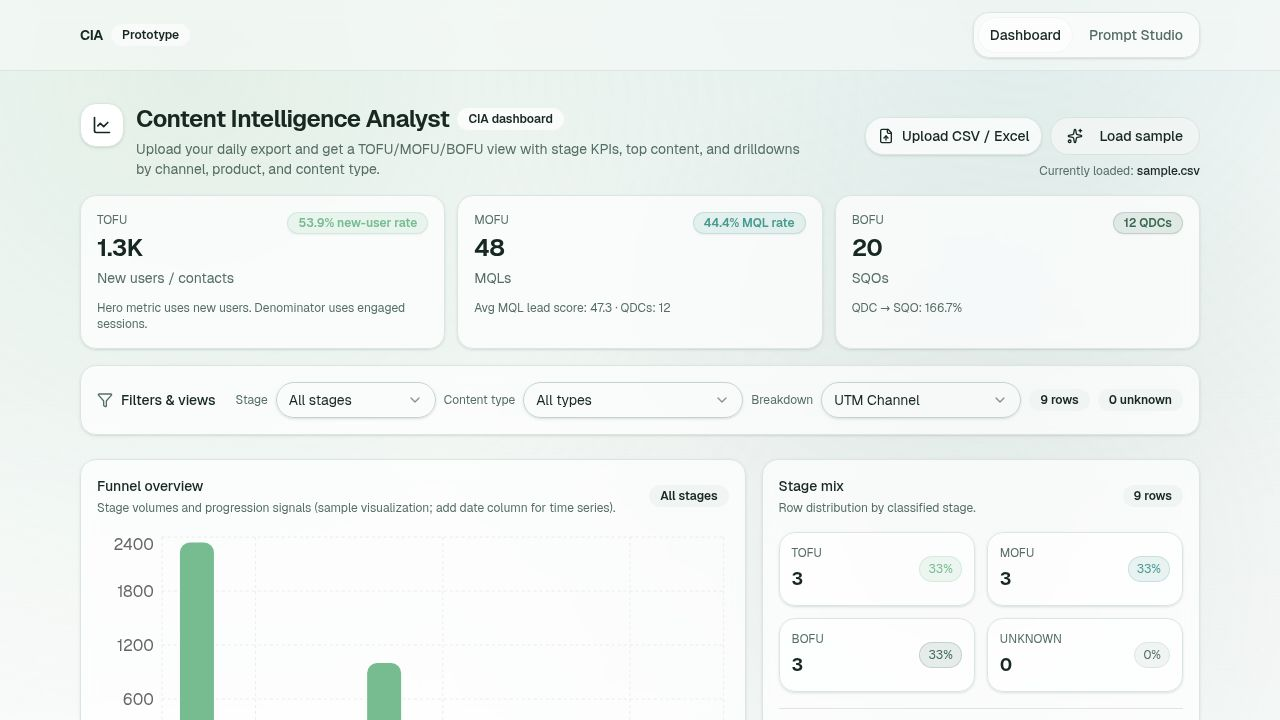
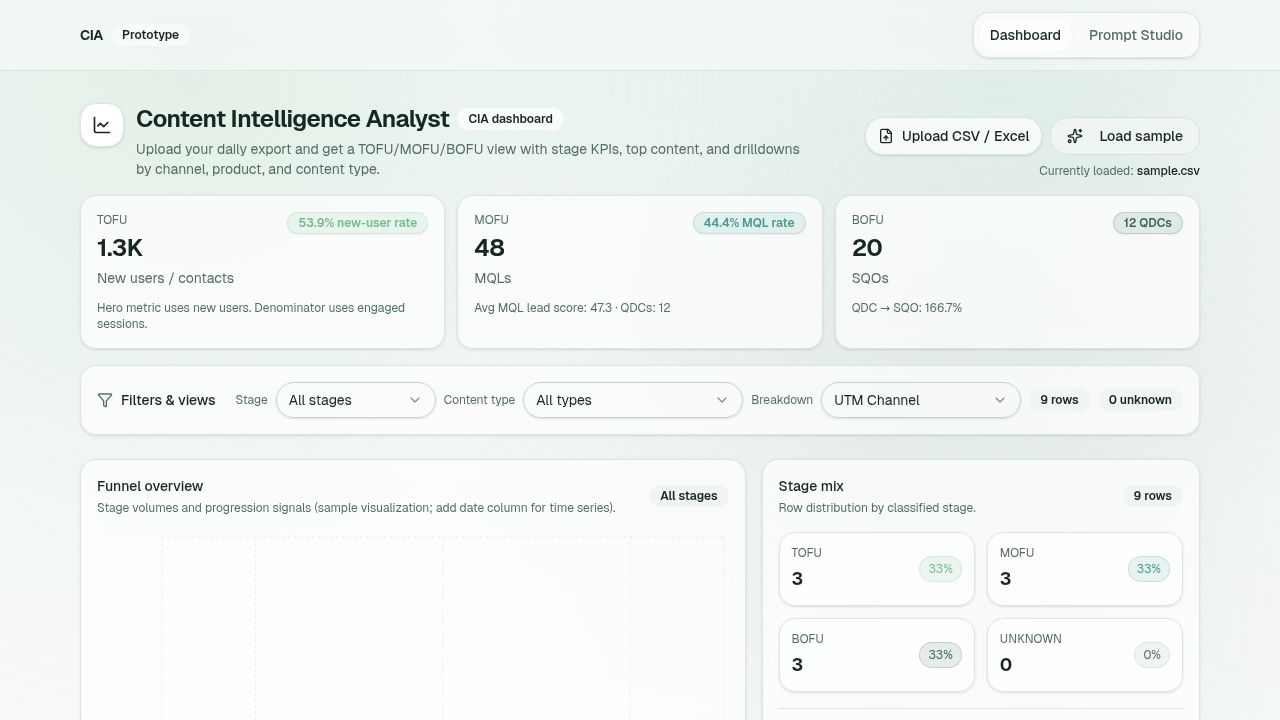
Add CTA funnel overview and analysis to campaign dashboard
Add a CTA funnel overview chart and a CTA analysis table to the FunnelDashboard page, along with mapping the `cta` field in `normalizeRows`.

Replit-Commit-Author: Agent
Replit-Commit-Session-Id: aa8dcb0e-507b-41c0-b293-e9b01400c488
Replit-Commit-Checkpoint-Type: full_checkpoint
Replit-Commit-Event-Id: 00e408f2-2424-410e-9ee1-05e759a3c498
Replit-Commit-Screenshot-Url: https://storage.googleapis.com/screenshot-production-us-central1/53bd540e-bf40-4a93-af34-5dbd8d69d4f0/aa8dcb0e-507b-41c0-b293-e9b01400c488/O1Dbl6y
Replit-Helium-Checkpoint-Created: true

Changed region(s): [[0.0938, 0.7333, 0.1875, 1.0], [0.2812, 0.9167, 0.3125, 1.0]]

diff --git a/client/src/pages/funnel-dashboard.tsx b/client/src/pages/funnel-dashboard.tsx
@@ -63,6 +63,7 @@ type NormalizedRow = {
   productFranchise?: string;
   objective?: string;
   contentType?: string;
+  cta?: string;
   engagedSessions?: number;
   sessions?: number;
   pageViews?: number;
@@ -228,6 +229,9 @@ function normalizeRows(rows: ParsedRow[]): NormalizedRow[] {
         pickFirst(r, ["typecampaignmember__c", "content_type", "type"]) ?? "",
       ).trim() || undefined;
 
+    const cta =
+      String(pickFirst(r, ["cta", "call_to_action", "cta_type"]) ?? "").trim() || undefined;
+
     const engagedSessions = toNumber(
       pickFirst(r, [
         "engaged_sessions",
@@ -342,6 +346,7 @@ function normalizeRows(rows: ParsedRow[]): NormalizedRow[] {
       productFranchise,
       objective,
       contentType,
+      cta,
       engagedSessions,
       sessions,
       pageViews,
@@ -554,6 +559,7 @@ export default function FunnelDashboard() {
           productFranchise: a.productFranchise || undefined,
           objective: a.objective || undefined,
           contentType: a.typecampaignmember || undefined,
+          cta: a.cta || undefined,
           engagedSessions: undefined,
           sessions: undefined,
           pageViews: a.pageviewsSum || 0,
@@ -741,6 +747,42 @@ export default function FunnelDashboard() {
       )
       .slice(0, 10);
   }, [filtered, dimension]);
+
+  const ctaFunnelData = useMemo(() => {
+    const ctaMap = new Map<string, { cta: string; TOFU: number; MOFU: number; BOFU: number; total: number }>();
+    for (const r of rows) {
+      const ctaVal = r.cta || "(none)";
+      if (!ctaMap.has(ctaVal)) {
+        ctaMap.set(ctaVal, { cta: ctaVal, TOFU: 0, MOFU: 0, BOFU: 0, total: 0 });
+      }
+      const entry = ctaMap.get(ctaVal)!;
+      if (r.stage === "TOFU" || r.stage === "MOFU" || r.stage === "BOFU") {
+        entry[r.stage] += 1;
+        entry.total += 1;
+      }
+    }
+    return Array.from(ctaMap.values())
+      .filter((d) => d.total > 0)
+      .sort((a, b) => b.total - a.total)
+      .slice(0, 12);
+  }, [rows]);
+
+  const ctaSummary = useMemo(() => {
+    const ctaMap = new Map<string, { cta: string; assets: number; pageViews: number; leads: number; sqos: number }>();
+    for (const r of rows) {
+      const ctaVal = r.cta || "(none)";
+      if (!ctaMap.has(ctaVal)) {
+        ctaMap.set(ctaVal, { cta: ctaVal, assets: 0, pageViews: 0, leads: 0, sqos: 0 });
+      }
+      const entry = ctaMap.get(ctaVal)!;
+      entry.assets += 1;
+      entry.pageViews += r.pageViews || 0;
+      entry.leads += r.newContacts || 0;
+      entry.sqos += r.sqos || 0;
+    }
+    return Array.from(ctaMap.values())
+      .sort((a, b) => b.assets - a.assets);
+  }, [rows]);
 
   const funnelSeries = useMemo(() => {
     if (uploadDiagnostics) {
@@ -1247,14 +1289,13 @@ export default function FunnelDashboard() {
               <div className="flex items-center justify-between">
                 <div>
                   <div className="text-sm font-medium" data-testid="text-funnel-title">
-                    Funnel overview
+                    CTA Funnel Overview
                   </div>
                   <div
                     className="mt-1 text-xs text-muted-foreground"
                     data-testid="text-funnel-subtitle"
                   >
-                    Stage volumes and progression signals (sample visualization;
-                    add date column for time series).
+                    Content assets by CTA type across funnel stages.
                   </div>
                 </div>
                 <Badge
@@ -1262,72 +1303,27 @@ export default function FunnelDashboard() {
                   className="rounded-xl"
                   data-testid="badge-funnel"
                 >
-                  {stageFilter === "ALL" ? "All stages" : stageFilter}
+                  {ctaFunnelData.length} CTAs
                 </Badge>
               </div>
-              <div className="mt-4 h-[280px]" data-testid="chart-funnel">
+              <div className="mt-4 h-[320px]" data-testid="chart-funnel">
                 <ResponsiveContainer width="100%" height="100%">
-                  <BarChart data={funnelSeries} barCategoryGap={18}>
-                    <CartesianGrid strokeDasharray="3 3" opacity={0.35} />
-                    <XAxis dataKey="stage" tickLine={false} axisLine={false} />
-                    <YAxis tickLine={false} axisLine={false} />
+                  <BarChart data={ctaFunnelData} layout="vertical" barCategoryGap={6}>
+                    <CartesianGrid strokeDasharray="3 3" opacity={0.25} horizontal={false} />
+                    <XAxis type="number" tickLine={false} axisLine={false} />
+                    <YAxis
+                      type="category"
+                      dataKey="cta"
+                      tickLine={false}
+                      axisLine={false}
+                      width={130}
+                      tick={{ fontSize: 12 }}
+                    />
                     <ReTooltip />
                     <Legend />
-                    {uploadDiagnostics ? (
-                      <>
-                        <Bar
-                          dataKey="contentAssets"
-                          name="Content Assets"
-                          fill="hsl(var(--chart-1))"
-                          radius={[10, 10, 0, 0]}
-                        />
-                        <Bar
-                          dataKey="pageViews"
-                          name="Page Views"
-                          fill="hsl(var(--chart-2))"
-                          radius={[10, 10, 0, 0]}
-                        />
-                        <Bar
-                          dataKey="uniqueLeads"
-                          name="Unique Leads"
-                          fill="hsl(var(--chart-3))"
-                          radius={[10, 10, 0, 0]}
-                        />
-                        <Bar
-                          dataKey="sqos"
-                          name="SQOs"
-                          fill="hsl(var(--chart-4))"
-                          radius={[10, 10, 0, 0]}
-                        />
-                      </>
-                    ) : (
-                      <>
-                        <Bar
-                          dataKey="engagedSessions"
-                          name="Engaged Sessions"
-                          fill="hsl(var(--chart-1))"
-                          radius={[10, 10, 0, 0]}
-                        />
-                        <Bar
-                          dataKey="newContacts"
-                          name="New Contacts"
-                          fill="hsl(var(--chart-2))"
-                          radius={[10, 10, 0, 0]}
-                        />
-                        <Bar
-                          dataKey="mqls"
-                          name="MQLs"
-                          fill="hsl(var(--chart-3))"
-                          radius={[10, 10, 0, 0]}
-                        />
-                        <Bar
-                          dataKey="sqos"
-                          name="SQOs"
-                          fill="hsl(var(--chart-4))"
-                          radius={[10, 10, 0, 0]}
-                        />
-                      </>
-                    )}
+                    <Bar dataKey="TOFU" name="TOFU" stackId="stage" fill="hsl(var(--chart-1))" radius={[0, 0, 0, 0]} />
+                    <Bar dataKey="MOFU" name="MOFU" stackId="stage" fill="hsl(var(--chart-2))" radius={[0, 0, 0, 0]} />
+                    <Bar dataKey="BOFU" name="BOFU" stackId="stage" fill="hsl(var(--chart-3))" radius={[0, 4, 4, 0]} />
                   </BarChart>
                 </ResponsiveContainer>
               </div>
@@ -1474,8 +1470,16 @@ export default function FunnelDashboard() {
             </Card>
           </div>
 
-          <Tabs defaultValue="top-content" className="w-full">
-            <TabsList className="grid w-full grid-cols-2 rounded-2xl border bg-card/60 p-1 shadow-sm backdrop-blur">
+          <Tabs defaultValue="cta-analysis" className="w-full">
+            <TabsList className="grid w-full grid-cols-3 rounded-2xl border bg-card/60 p-1 shadow-sm backdrop-blur">
+              <TabsTrigger
+                value="cta-analysis"
+                className="rounded-xl"
+                data-testid="tab-cta-analysis"
+              >
+                <Filter className="mr-2 h-4 w-4" />
+                CTA Analysis
+              </TabsTrigger>
               <TabsTrigger
                 value="top-content"
                 className="rounded-xl"
@@ -1493,6 +1497,62 @@ export default function FunnelDashboard() {
                 Raw CSV
               </TabsTrigger>
             </TabsList>
+
+            <TabsContent value="cta-analysis" className="mt-4">
+              <Card className="rounded-2xl border bg-card/70 p-4 shadow-sm backdrop-blur">
+                <div className="flex items-center justify-between">
+                  <div>
+                    <div className="text-sm font-medium" data-testid="text-cta-title">
+                      CTA Performance Summary
+                    </div>
+                    <div className="mt-1 text-xs text-muted-foreground" data-testid="text-cta-subtitle">
+                      Metrics breakdown per CTA type across all funnel stages.
+                    </div>
+                  </div>
+                  <Badge variant="secondary" className="rounded-xl" data-testid="badge-cta-count">
+                    {ctaSummary.length} CTAs
+                  </Badge>
+                </div>
+                <div className="mt-4 overflow-auto">
+                  <Table>
+                    <TableHeader>
+                      <TableRow>
+                        <TableHead className="w-[28%]">CTA</TableHead>
+                        <TableHead className="text-right">Assets</TableHead>
+                        <TableHead className="text-right">Page Views</TableHead>
+                        <TableHead className="text-right">Leads</TableHead>
+                        <TableHead className="text-right">SQOs</TableHead>
+                        <TableHead className="text-right">Conv. Rate</TableHead>
+                      </TableRow>
+                    </TableHeader>
+                    <TableBody>
+                      {ctaSummary.map((d, idx) => (
+                        <TableRow key={d.cta} className="hover:bg-muted/30" data-testid={`row-cta-${idx}`}>
+                          <TableCell>
+                            <div className="text-sm font-medium" data-testid={`text-cta-name-${idx}`}>{d.cta}</div>
+                          </TableCell>
+                          <TableCell className="text-right text-sm" data-testid={`text-cta-assets-${idx}`}>
+                            {formatCompact(d.assets)}
+                          </TableCell>
+                          <TableCell className="text-right text-sm" data-testid={`text-cta-views-${idx}`}>
+                            {formatCompact(d.pageViews)}
+                          </TableCell>
+                          <TableCell className="text-right text-sm" data-testid={`text-cta-leads-${idx}`}>
+                            {formatCompact(d.leads)}
+                          </TableCell>
+                          <TableCell className="text-right text-sm font-[650]" data-testid={`text-cta-sqos-${idx}`}>
+                            {formatCompact(d.sqos)}
+                          </TableCell>
+                          <TableCell className="text-right text-sm" data-testid={`text-cta-conv-${idx}`}>
+                            {d.leads > 0 ? `${((d.sqos / d.leads) * 100).toFixed(1)}%` : "—"}
+                          </TableCell>
+                        </TableRow>
+                      ))}
+                    </TableBody>
+                  </Table>
+                </div>
+              </Card>
+            </TabsContent>
 
             <TabsContent value="top-content" className="mt-4">
               <div className="grid gap-4 lg:grid-cols-3">
